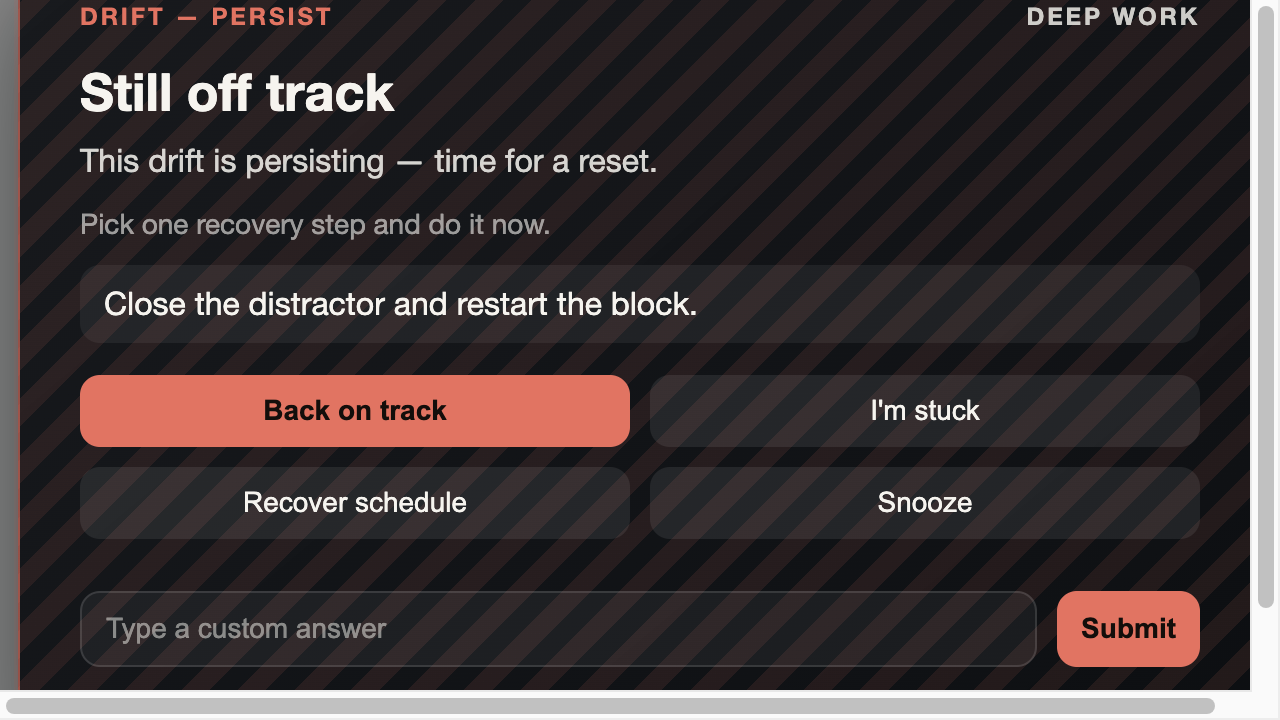
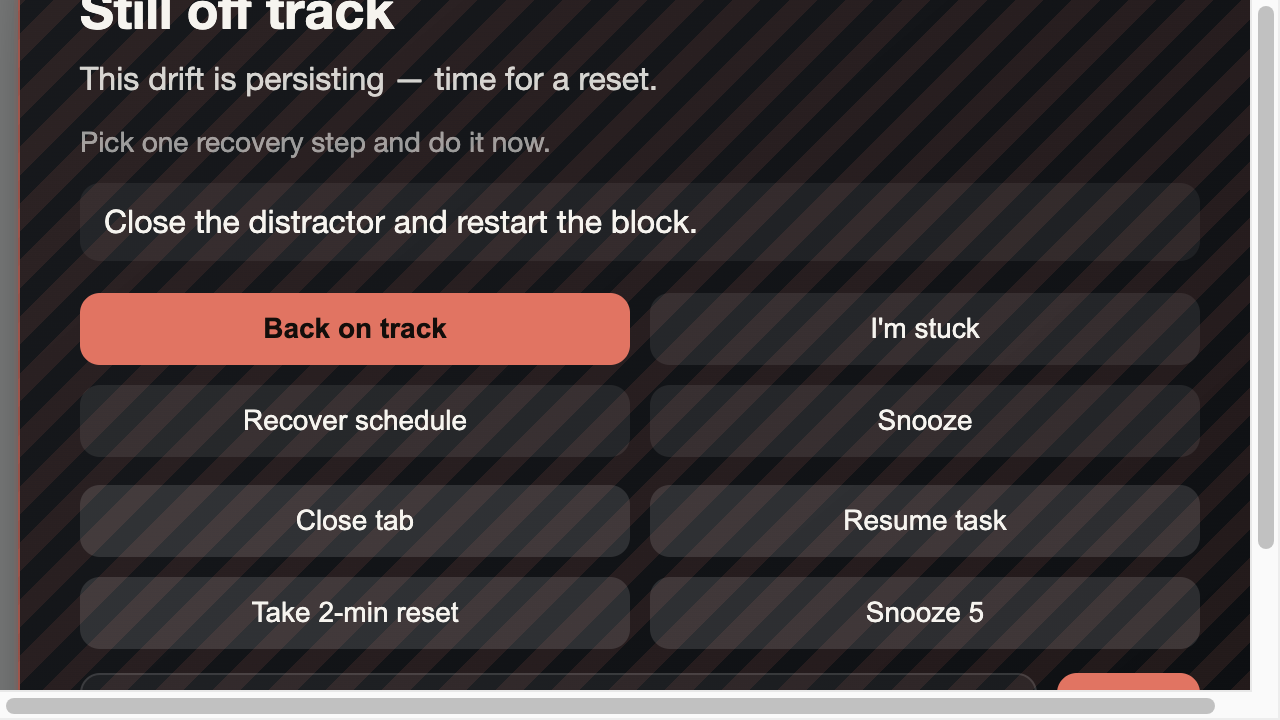
overlay: add screenshot for align choices

diff --git a/overlay/scripts/screenshot.js b/overlay/scripts/screenshot.js
@@ -35,6 +35,26 @@ const PAYLOADS = [
     },
   },
   {
+    name: "overlay_align_choices.png",
+    payload: {
+      ts: "2026-02-06T05:30:00.000Z",
+      cmd_id: "99999999-9999-9999-9999-999999999999",
+      source_event_id: "88888888-8888-8888-8888-888888888888",
+      source_event_type: "DRIFT_START",
+      source: "screenshot",
+      level: "B",
+      style_id: "strict",
+      headline: "Quick alignment",
+      human_line: "Which action will you take next?",
+      diagnosis: "Pick one option or type a custom answer.",
+      next_action: "Choose the smallest next step.",
+      question_id: "q-0001",
+      choices: ["Close tab", "Resume task", "Take 2-min reset", "Snooze 5"],
+      block_id: "block-123",
+      block_name: "Deep work",
+    },
+  },
+  {
     name: "overlay_drift_persist_pattern-break.png",
     payload: {
       ts: "2026-02-06T05:30:00.000Z",
